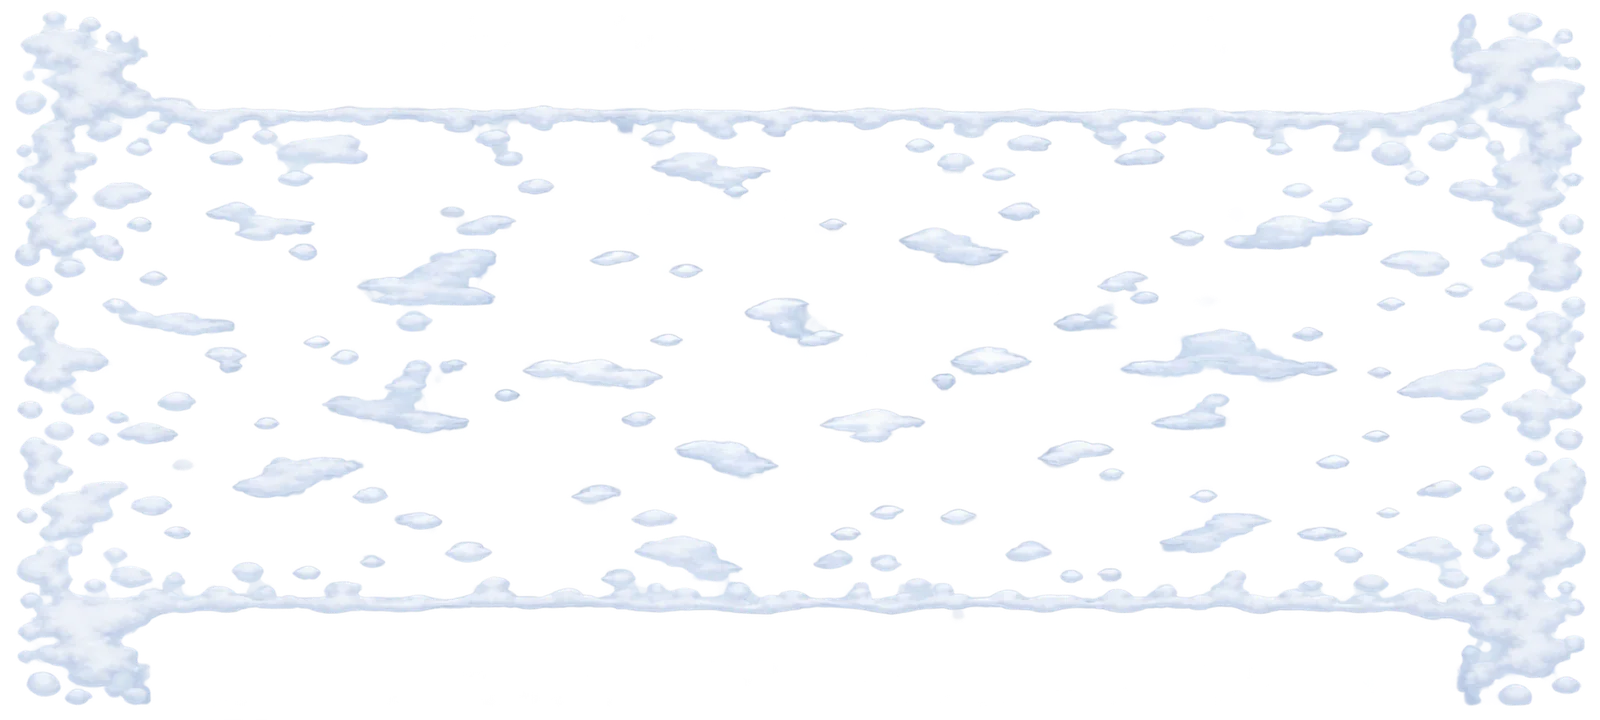
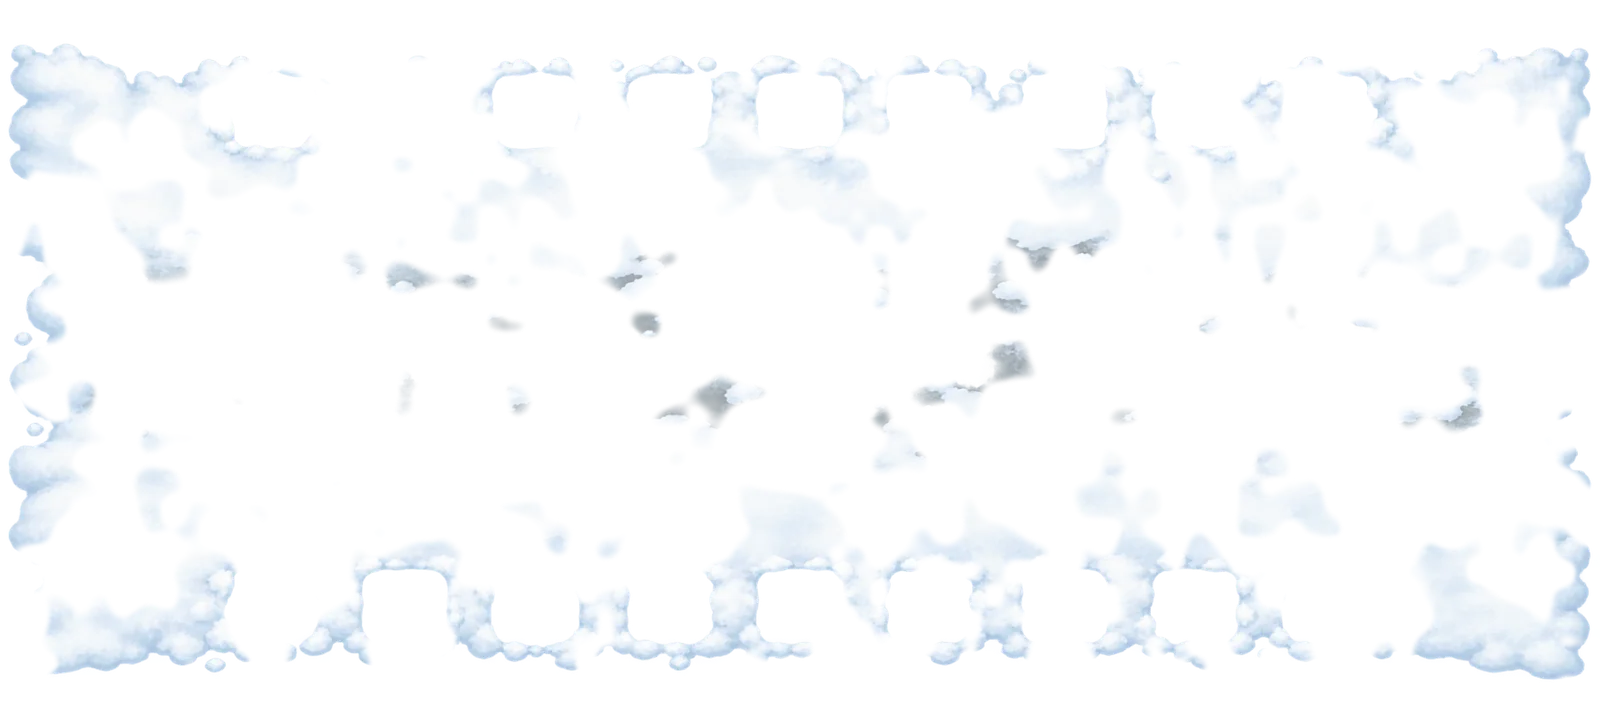
3.55: light snow built from the heavy-snow art, drifting toward the sidelines
Claude-Session: https://claude.ai/code/session_01Nx5NARwc86Ay4Sngkv8wPb

diff --git a/src/patchNotes.js b/src/patchNotes.js
@@ -1406,4 +1406,7 @@ export const PATCH_NOTES = [
     "Every touchdown pops a holiday piece onto the field: a jack-o'-lantern, a football with an autumn leaf, a golden ornament or a firework burst.",
     "The intros open with the holiday's hero art flanked by two more pieces sliding in. The result card has art pinned to its corners, and the holiday badge carries the art too.",
   ] },
+  { v: "3.55", date: "2026-10-20", title: "Light Snow Matches Heavy Snow", notes: [
+    "Light snow now matches heavy snow. It's a lighter version of the same snowfall: drifts collect along the sidelines, in the end zones and around the plowed yard-number boxes, and the middle of the field, where the players run, stays mostly clear. The odd white strips and scattered blobs are gone.",
+  ] },
 ];

diff --git a/src/LiveField.jsx b/src/LiveField.jsx
@@ -34,7 +34,7 @@ const WX_CSS = `@keyframes lfRain { from { transform: translate(0, -30px) } to {
 const BASE = import.meta.env?.BASE_URL ?? "/";
 // where each overlay sits on the field, [x, y, width, height]: full field unless the art was drawn
 // on a tighter canvas (heavy snow: its cleared lanes measured against the yard numbers)
-const PLACE = { heavySnow: [-12.7, -46.4, 825, 456] };
+const PLACE = { heavySnow: [-12.7, -46.4, 825, 456], lightSnow: [-12.7, -46.4, 825, 456] };
 function Ground({ wx, kind }) {
   if (!wx.rain && !wx.snow) return null;
   return (
